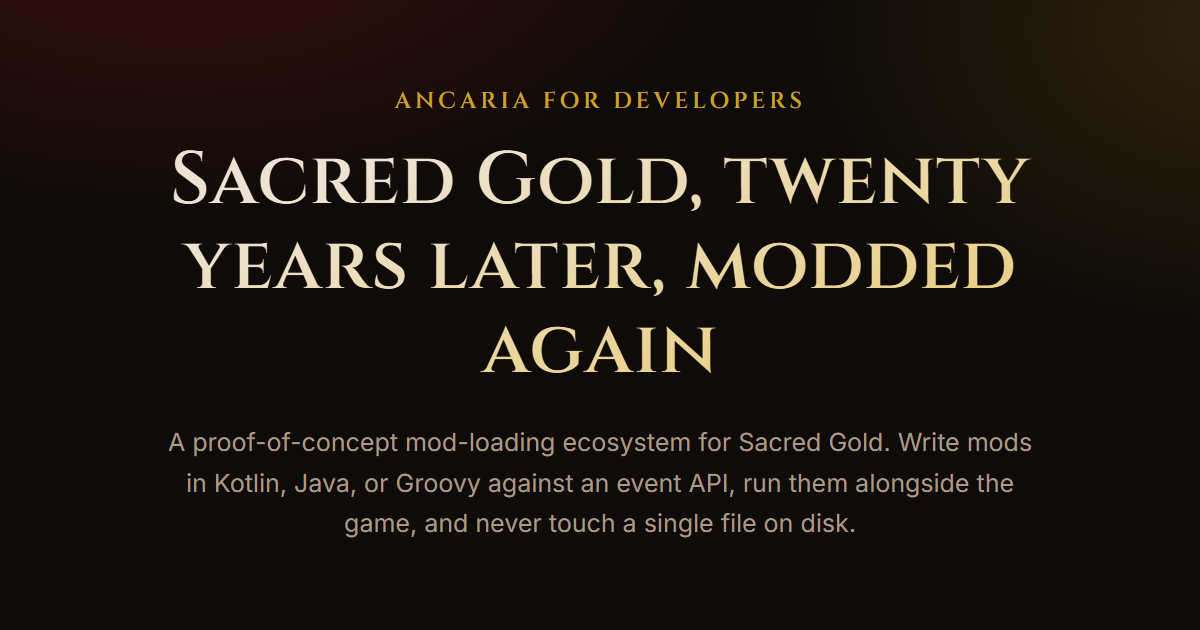
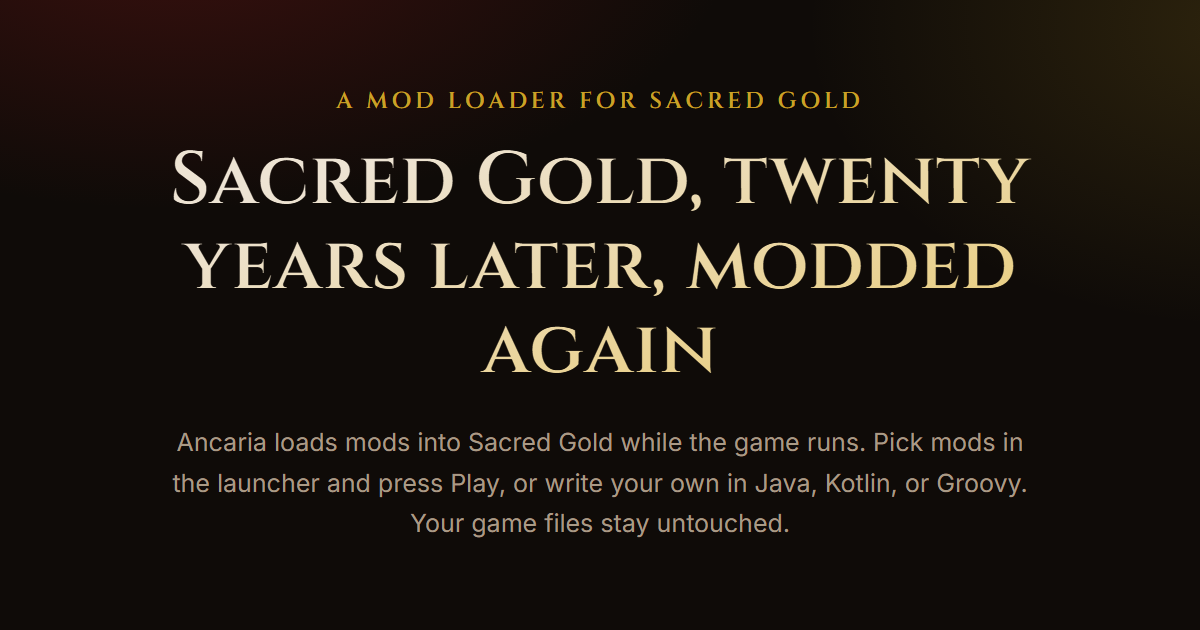
Rewrite the social card copy and regenerate it

diff --git a/tools/og.html b/tools/og.html
@@ -87,12 +87,11 @@
   </head>
   <body>
     <div class="frame">
-      <p class="eyebrow">Ancaria for Developers</p>
+      <p class="eyebrow">A mod loader for Sacred Gold</p>
       <h1 class="title">Sacred Gold, twenty years later, modded again</h1>
       <p class="lede">
-        A proof-of-concept mod-loading ecosystem for Sacred Gold. Write mods in Kotlin, Java, or
-        Groovy against an event API, run them alongside the game, and never touch a single file on
-        disk.
+        Ancaria loads mods into Sacred Gold while the game runs. Pick mods in the launcher and press
+        Play, or write your own in Java, Kotlin, or Groovy. Your game files stay untouched.
       </p>
     </div>
   </body>

diff --git a/index.html b/index.html
@@ -30,7 +30,7 @@
     <meta property="og:image:height" content="630" />
     <meta
       property="og:image:alt"
-      content="Ancaria for Developers: Sacred Gold, twenty years later, modded again"
+      content="A mod loader for Sacred Gold: Sacred Gold, twenty years later, modded again"
     />
     <meta name="twitter:card" content="summary_large_image" />
     <meta name="twitter:image" content="https://ancaria.dev/og-image.png" />
